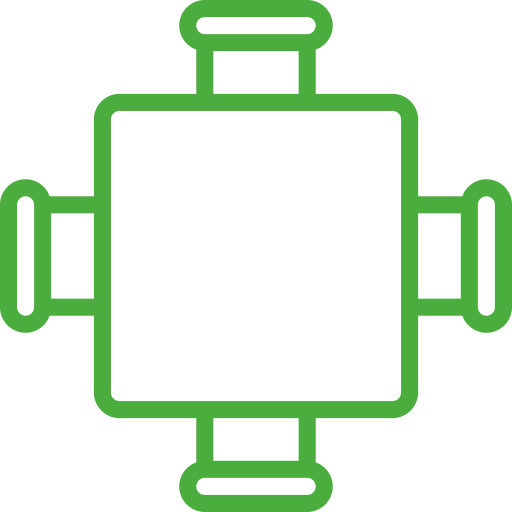
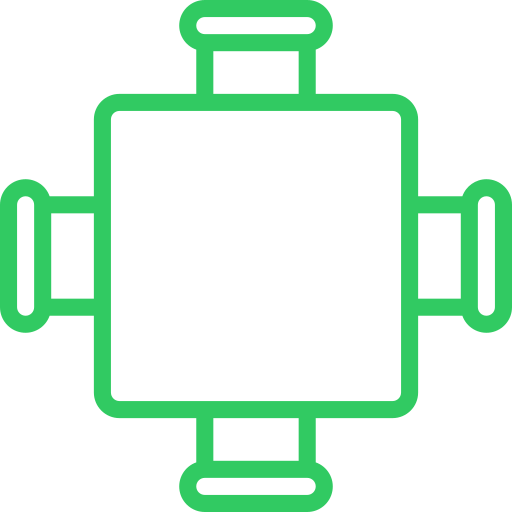
Table_UI update

Changed region(s): [[0.0, 0.0, 1.0, 1.0]]

diff --git a/MainProject/MainWorkSpace/Table/SelectTableView.xaml b/MainProject/MainWorkSpace/Table/SelectTableView.xaml
@@ -1,12 +1,59 @@
 <UserControl x:Class="MainProject.MainWorkSpace.Table.SelectTableView"
              xmlns="http://schemas.microsoft.com/winfx/2006/xaml/presentation"
              xmlns:x="http://schemas.microsoft.com/winfx/2006/xaml"
-             xmlns:mc="http://schemas.openxmlformats.org/markup-compatibility/2006" 
-             xmlns:d="http://schemas.microsoft.com/expression/blend/2008" 
+             xmlns:d="http://schemas.microsoft.com/expression/blend/2008"
+             xmlns:mc="http://schemas.openxmlformats.org/markup-compatibility/2006"
              xmlns:local="clr-namespace:MainProject.MainWorkSpace.Table"
-             mc:Ignorable="d" 
-             d:DesignHeight="450" d:DesignWidth="800">
+             mc:Ignorable="d"
+             xmlns:dragablz="clr-namespace:Dragablz;assembly=Dragablz"
+             xmlns:materialDesign="http://materialdesigninxaml.net/winfx/xaml/themes"
+             d:DesignHeight="520" d:DesignWidth="900" Background="White">
     <Grid>
-            
+        <Grid VerticalAlignment="Top" Height="50">
+            <Border BorderBrush="#737373" BorderThickness="2"></Border>
+            <materialDesign:ColorZone Mode="PrimaryMid" Height="50" Background="{DynamicResource MainColor}" Foreground="White">
+            <StackPanel
+                 Orientation="Horizontal"
+                Margin="4,0"  >
+                <RadioButton
+                    Style="{StaticResource MaterialDesignTabRadioButton}"
+                    Margin="4,0"
+                    Height="50"
+                    IsChecked="True"
+                    Content="HÓA ĐƠN" 
+                    FontWeight="Bold"
+                    FontSize="18" />
+                <TextBlock Text="|" FontSize="30" FontWeight="Light" Foreground="#737373"></TextBlock>
+                <RadioButton
+                    Style="{StaticResource MaterialDesignTabRadioButton}"
+                    Margin="4"
+                    Content="TẦNG 1"
+                    FontSize="16"/>
+                <RadioButton
+                    Style="{StaticResource MaterialDesignTabRadioButton}"
+                    Margin="4"  
+                    Content="TẦNG 2" 
+                    FontSize="16"/>
+            </StackPanel>
+            </materialDesign:ColorZone>
+        </Grid>
+        <Grid VerticalAlignment="Stretch" Margin="0,55,0,0">
+            <Border Grid.Row="1" BorderThickness="1 0 1 1"  Padding="16">
+                <Grid>
+                    <Grid Visibility="{Binding IsChecked, ElementName=rbTab1, Converter={StaticResource BooleanToVisibilityConverter}}">
+                        <TextBlock Text="This is tab page 1 content" FontSize="16" FontWeight="Medium"/>
+                    </Grid>
+                    <Grid Visibility="{Binding IsChecked, ElementName=rbTab2, Converter={StaticResource BooleanToVisibilityConverter}}">
+                        <local:TableView></local:TableView>
+                    </Grid>
+                    <Grid Visibility="{Binding IsChecked, ElementName=rbTab3, Converter={StaticResource BooleanToVisibilityConverter}}">
+                        <local:TableView></local:TableView>
+                    </Grid>
+                </Grid>
+            </Border>
+
+        </Grid>
+        
+        
     </Grid>
 </UserControl>

diff --git a/MainProject/MainWorkSpace/Table/TableManager.xaml b/MainProject/MainWorkSpace/Table/TableManager.xaml
@@ -9,16 +9,59 @@
              mc:Ignorable="d" 
              d:DesignHeight="630" d:DesignWidth="900" Background="White">
     <Grid>
-
+        <Grid Height="45" VerticalAlignment="Top" Background="{DynamicResource MainColor}">
+            <Border BorderThickness="1" BorderBrush="#9393A1"></Border>
+            <Button
+                 Style="{StaticResource MaterialDesignFloatingActionMiniButton}"
+                 HorizontalAlignment="Left"
+                 Margin="10,0,0,0"
+                 Background="Transparent"
+                 BorderBrush="Transparent"
+                 ToolTip="MaterialDesignFloatingActionMiniButton">
+                <materialDesign:PackIcon
+                    Kind="ArrowLeft"
+                    Height="35"
+                    Width="35" />    
+            </Button>
+            <TextBlock
+             Style="{StaticResource MaterialDesignHeadline6TextBlock}"
+             Text="Quản lý bàn" FontSize="26" Foreground="White" Margin="380,0,0,0"/>
+            <Button
+                Height="40" Width="80" BorderBrush="Transparent"
+                Style="{StaticResource MaterialDesignOutlinedButton}"
+                ToolTip="MaterialDesignOutlinedButton" 
+                Content="SỬA" FontSize="20" Foreground="#E6FFED" Margin="780,0,0,0"  Visibility="Visible"/>
+            <Button Height="40" Width="80" BorderBrush="Transparent" 
+                Style="{StaticResource MaterialDesignOutlinedButton}"
+                ToolTip="MaterialDesignOutlinedButton"
+                Content="LƯU" FontSize="20" Background="#E6FFED" Foreground="#2BC48A" Margin="780,0,0,0" Visibility="Hidden"/>
+        </Grid>
         <ComboBox
             x:Name="OutlinedComboBox"
             Style="{StaticResource MaterialDesignOutlinedComboBox}"
-            IsEnabled="{Binding IsChecked, ElementName=OutlinedComboBoxEnabledCheckBox}"
             materialDesign:HintAssist.Hint="Tên khu vực"
             FontSize="18"
+            Foreground="#9393A1"
+            BorderBrush="#737373"
             ItemsSource="{Binding ShortStringList}"
             Width="700" Margin="30,70,170,500" />
-        <local:Plus_UC Height="60" Width="95" Margin="770,70,30,500" />
-        <local:TableView Height="480" Width="840" Margin="30,150"/>
+        <local:Plus_UC Height="61" Width="95" Margin="770,70,30,500" Visibility="Visible" />
+        <Grid  Margin="30,150,0,0">
+            <Canvas >
+                <local:TableView Height="480" Width="840"  BorderBrush="#9393A1" BorderThickness="2"/>
+                <Button
+                Background="{DynamicResource MainColor}"
+                BorderBrush="{DynamicResource MainColor}"
+                Visibility="Visible"
+                Style="{StaticResource MaterialDesignFloatingActionButton}"
+                ToolTip="MaterialDesignFloatingActionButton" Canvas.Left="760" Canvas.Top="400"   >
+                    <materialDesign:PackIcon
+                    Kind="Plus"
+                    Height="30"
+                    Width="30" 
+                    Foreground="White"/>
+                </Button>
+            </Canvas>
+        </Grid>
     </Grid>
 </UserControl>

diff --git a/MainProject/LoginWorkSpace/LoginView.xaml b/MainProject/LoginWorkSpace/LoginView.xaml
@@ -51,7 +51,7 @@
                 <StackPanel Margin="20 50">
                     <TextBlock Text="Đăng nhập"
                                Margin="20"
-                               Foreground="#30BF7C"
+                               Foreground="#2BC48A"
                                TextAlignment="Center"
                                FontSize="38"></TextBlock>
                     <StackPanel Orientation="Horizontal"
@@ -78,21 +78,23 @@
                                      Width="250"
                                      materialDesign:TextFieldAssist.UnderlineBrush="#30BF7C" />
                     </StackPanel>
-                    <StackPanel Margin="10 30"
+                    <TextBlock
+                         Style="{StaticResource MaterialDesignCaptionTextBlock}"
+                         Text="Quên mật khẩu?" FontSize="14" Foreground="#009E77" FontStyle="Oblique" Margin="200,0,0,0"/>    
+                    <StackPanel Margin="15"
                                 HorizontalAlignment="Center">
                         <Button Width="100"
                                 Height="40"
                                 Style="{StaticResource MaterialDesignRaisedButton}"
                                 materialDesign:ButtonAssist.CornerRadius="10"
                                 BorderThickness="2"
-                                BorderBrush="#30BF7C"
-                                Background="#30BF7C"
+                                BorderBrush="#2BC48A"
+                                Background="#2BC48A"
                                 Foreground="White"
                                 ToolTip="Login"
                                 x:Name="btnLogin"
                                 Content="Login"
-                                Command="{Binding LoginCommand}">
-                        </Button>
+                                Command="{Binding LoginCommand}"/>
                     </StackPanel>
                 </StackPanel>
             </StackPanel>

diff --git a/MainProject/MainWorkSpace/Product/ProdView.xaml b/MainProject/MainWorkSpace/Product/ProdView.xaml
@@ -1,0 +1,28 @@
+<UserControl x:Class="MainProject.MainWorkSpace.Product.ProdView"
+             xmlns="http://schemas.microsoft.com/winfx/2006/xaml/presentation"
+             xmlns:x="http://schemas.microsoft.com/winfx/2006/xaml"
+             xmlns:mc="http://schemas.openxmlformats.org/markup-compatibility/2006" 
+             xmlns:d="http://schemas.microsoft.com/expression/blend/2008" 
+             xmlns:local="clr-namespace:MainProject.MainWorkSpace.Product"
+             mc:Ignorable="d" 
+             d:DesignHeight="480" d:DesignWidth="600">
+    <Grid>
+        <Grid.RowDefinitions>
+                <RowDefinition Height="120" />
+                <RowDefinitioc:\users\admin\desktop\cnpm\coffeemanager\mainproject\mainworkspace\product\prodview.xaml
+c:\users\admin\desktop\cnpm\coffeemanager\mainproject\mainworkspace\product\prodview.xaml.cs
+n Height="120" />
+                <RowDefinition Height="120" />
+                <RowDefinition Height="120" />
+            </Grid.RowDefinitions>
+            <Grid.ColumnDefinitions>
+                <ColumnDefinition Width="120" />
+                <ColumnDefinition Width="120" />
+                <ColumnDefinition Width="120" />
+                <ColumnDefinition Width="120" />
+                     <ColumnDefinition Width="120" />
+        </Grid.ColumnDefinitions>
+        <local:Pro_UC Grid.Row="0" Grid.Column="0" Margin="5" ></local:Pro_UC>
+        <local:AddProd_UC Grid.Column="1" Grid.Row="0" Margin="5"></local:AddProd_UC>
+        </Grid>
+</UserControl>

diff --git a/MainProject/App.xaml b/MainProject/App.xaml
@@ -2,6 +2,8 @@
              xmlns="http://schemas.microsoft.com/winfx/2006/xaml/presentation"
              xmlns:x="http://schemas.microsoft.com/winfx/2006/xaml"
              xmlns:local="clr-namespace:MainProject"
+             xmlns:dragablz="clr-namespace:Dragablz;assembly=Dragablz"
+             
              >
     <Application.Resources>
         <ResourceDictionary>
@@ -10,7 +12,11 @@
                 <ResourceDictionary Source="pack://application:,,,/MaterialDesignThemes.Wpf;component/Themes/MaterialDesignTheme.Defaults.xaml" />
                 <ResourceDictionary Source="pack://application:,,,/MaterialDesignColors;component/Themes/Recommended/Primary/MaterialDesignColor.DeepPurple.xaml" />
                 <ResourceDictionary Source="pack://application:,,,/MaterialDesignColors;component/Themes/Recommended/Accent/MaterialDesignColor.Lime.xaml" />
+                <ResourceDictionary Source="pack://application:,,,/Dragablz;component/Themes/materialdesign.xaml"/>
             </ResourceDictionary.MergedDictionaries>
+            <SolidColorBrush x:Key="MainColor" Color="#31CA62"/>
+            <!-- tell Dragablz tab control to use the Material Design theme -->
+            <Style TargetType="{x:Type dragablz:TabablzControl}" BasedOn="{StaticResource MaterialDesignTabablzControlStyle}" />
         </ResourceDictionary>
     </Application.Resources>
 </Application>

diff --git a/MainProject/MainWorkSpace/Product/Pro_UC.xaml b/MainProject/MainWorkSpace/Product/Pro_UC.xaml
@@ -5,11 +5,12 @@
              xmlns:d="http://schemas.microsoft.com/expression/blend/2008" 
              xmlns:local="clr-namespace:MainProject.MainWorkSpace.Product"
              mc:Ignorable="d" 
-             d:DesignHeight="120" d:DesignWidth="150">
+             d:DesignHeight="110" d:DesignWidth="110">
     <Grid>
+        <Border BorderThickness="2" BorderBrush="Gray"></Border>
         <Canvas >
-            <Image Source="C:\Users\Admin\Downloads\coffee.jpg" Stretch="Fill" Height="120" Width="150"/>
-            <TextBlock TextWrapping="Wrap" Height="35" Width="150" FontSize="18"   Canvas.Bottom="0" Text="Cà phê đen" Cursor="None" FontFamily="Tahoma" TextAlignment="Center"  >
+            <Image Source="C:\Users\Admin\Downloads\coffee.jpg" Stretch="Fill" Height="100" Width="110"/>
+            <TextBlock TextWrapping="Wrap" Height="30" Width="110" FontSize="16"   Canvas.Bottom="0" Text="Cà phê đen" Cursor="None" FontFamily="Tahoma" TextAlignment="Center"  >
                 <TextBlock.Background>
                     <LinearGradientBrush EndPoint="0.5,1" StartPoint="0.5,0">
                         <GradientStop Color="Transparent" Offset="0"/>

diff --git a/MainProject/MainWorkSpace/Product/AddProd_UC.xaml b/MainProject/MainWorkSpace/Product/AddProd_UC.xaml
@@ -6,10 +6,10 @@
              xmlns:local="clr-namespace:MainProject.MainWorkSpace.Product"
              xmlns:materialDesign="http://materialdesigninxaml.net/winfx/xaml/themes"
              mc:Ignorable="d" 
-             d:DesignHeight="90" d:DesignWidth="120"
+             d:DesignHeight="110" d:DesignWidth="110"
              BorderThickness="2"
              BorderBrush="Gray">
     <Grid>
-        <materialDesign:PackIcon Kind="Plus" Width="60" Height="60" Foreground="Gray"  Margin="30,15"></materialDesign:PackIcon>
+        <materialDesign:PackIcon Kind="Plus" Width="60" Height="60" Foreground="Gray"  VerticalAlignment="Center" HorizontalAlignment="Center"></materialDesign:PackIcon>
     </Grid>
 </UserControl>

diff --git a/MainProject/MainWorkSpace/Bill/BillDetail_UC.xaml b/MainProject/MainWorkSpace/Bill/BillDetail_UC.xaml
@@ -1,0 +1,12 @@
+<UserControl x:Class="MainProject.MainWorkSpace.Bill.BillDetail_UC"
+             xmlns="http://schemas.microsoft.com/winfx/2006/xaml/presentation"
+             xmlns:x="http://schemas.microsoft.com/winfx/2006/xaml"
+             xmlns:mc="http://schemas.openxmlformats.org/markup-compatibility/2006" 
+             xmlns:d="http://schemas.microsoft.com/expression/blend/2008" 
+             xmlns:local="clr-namespace:MainProject.MainWorkSpace.Bill"
+             mc:Ignorable="d" 
+             d:DesignHeight="480" d:DesignWidth="300">
+    <Grid>
+            
+    </Grid>
+</UserControl>

diff --git a/MainProject/MainWorkSpace/Table/FreeTable_UC.xaml b/MainProject/MainWorkSpace/Table/FreeTable_UC.xaml
@@ -8,6 +8,6 @@
              d:DesignHeight="100" d:DesignWidth="100">
     <Canvas>
         <Image Source="/Resources/freetable.png" Height="80" Width="80" Margin="10,10"></Image>
-        <TextBlock Text="001" FontSize="18" Foreground="#4BAD3D" Canvas.Left="36" Canvas.Top="37" TextAlignment="Center"  />
+        <TextBlock Text="001" FontSize="18" FontWeight="Light" Foreground="{DynamicResource MainColor}" Canvas.Left="38" Canvas.Top="37" TextAlignment="Center"  />
     </Canvas>
 </UserControl>

diff --git a/MainProject/MainWorkSpace/Table/TableView.xaml b/MainProject/MainWorkSpace/Table/TableView.xaml
@@ -23,6 +23,6 @@
             <ColumnDefinition Width="140" />
         </Grid.ColumnDefinitions>
         <local:FreeTable_UC Grid.Column="0" Grid.Row="0" Margin="20,10"></local:FreeTable_UC>
-        <local:FreeTable_UC Grid.Column="1" Grid.Row="0" Margin="20,10"></local:FreeTable_UC>
+       
     </Grid>
 </UserControl>

diff --git a/MainProject/MainWorkSpace/Table/Plus_UC.xaml b/MainProject/MainWorkSpace/Table/Plus_UC.xaml
@@ -15,5 +15,6 @@
         </materialDesign:PackIcon>
         <Border  BorderThickness="2"  BorderBrush="Gray" CornerRadius="5">
         </Border>
+        
     </Grid>
 </UserControl>

diff --git a/MainProject/MainWorkSpace/Bill/BillDetail_UC.xaml.cs b/MainProject/MainWorkSpace/Bill/BillDetail_UC.xaml.cs
@@ -13,17 +13,16 @@ using System.Windows.Media.Imaging;
 using System.Windows.Navigation;
 using System.Windows.Shapes;
 
-namespace MainProject.MainWorkSpace.Table
+namespace MainProject.MainWorkSpace.Bill
 {
     /// <summary>
-    /// Interaction logic for SelectTableView.xaml
+    /// Interaction logic for BillDetail_UC.xaml
     /// </summary>
-    public partial class SelectTableView : UserControl
+    public partial class BillDetail_UC : UserControl
     {
-        public SelectTableView()
+        public BillDetail_UC()
         {
             InitializeComponent();
         }
-
     }
 }
